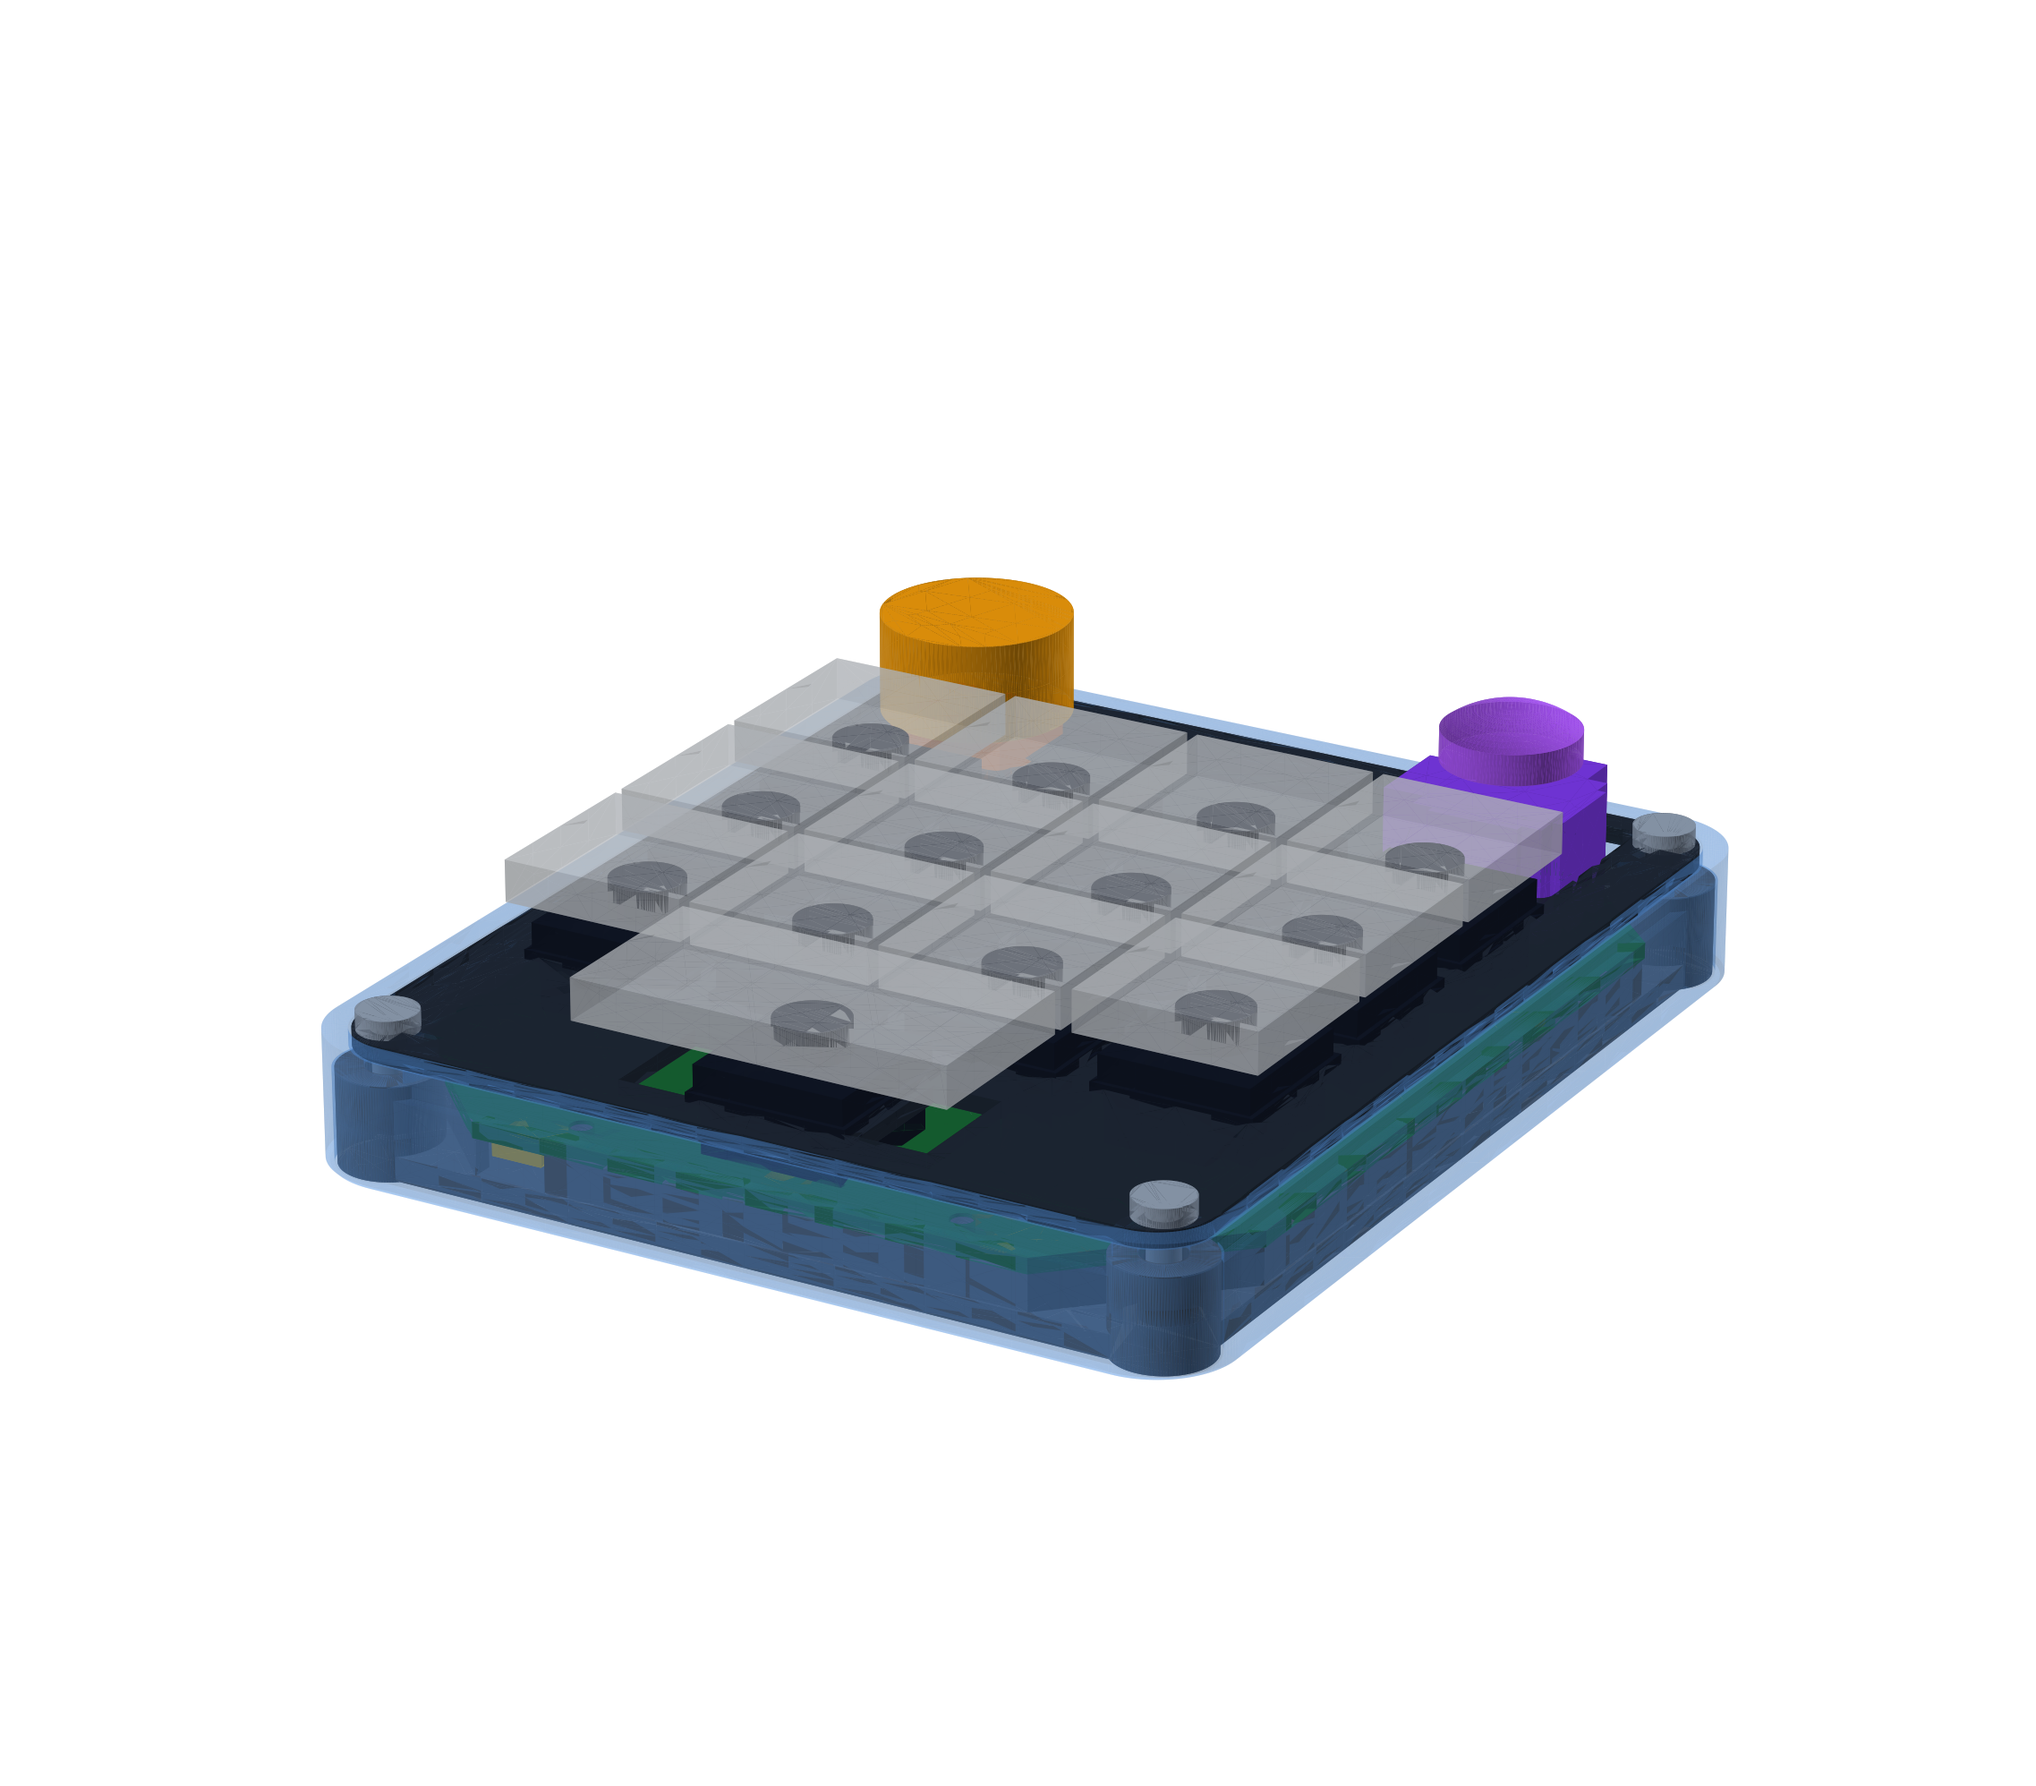
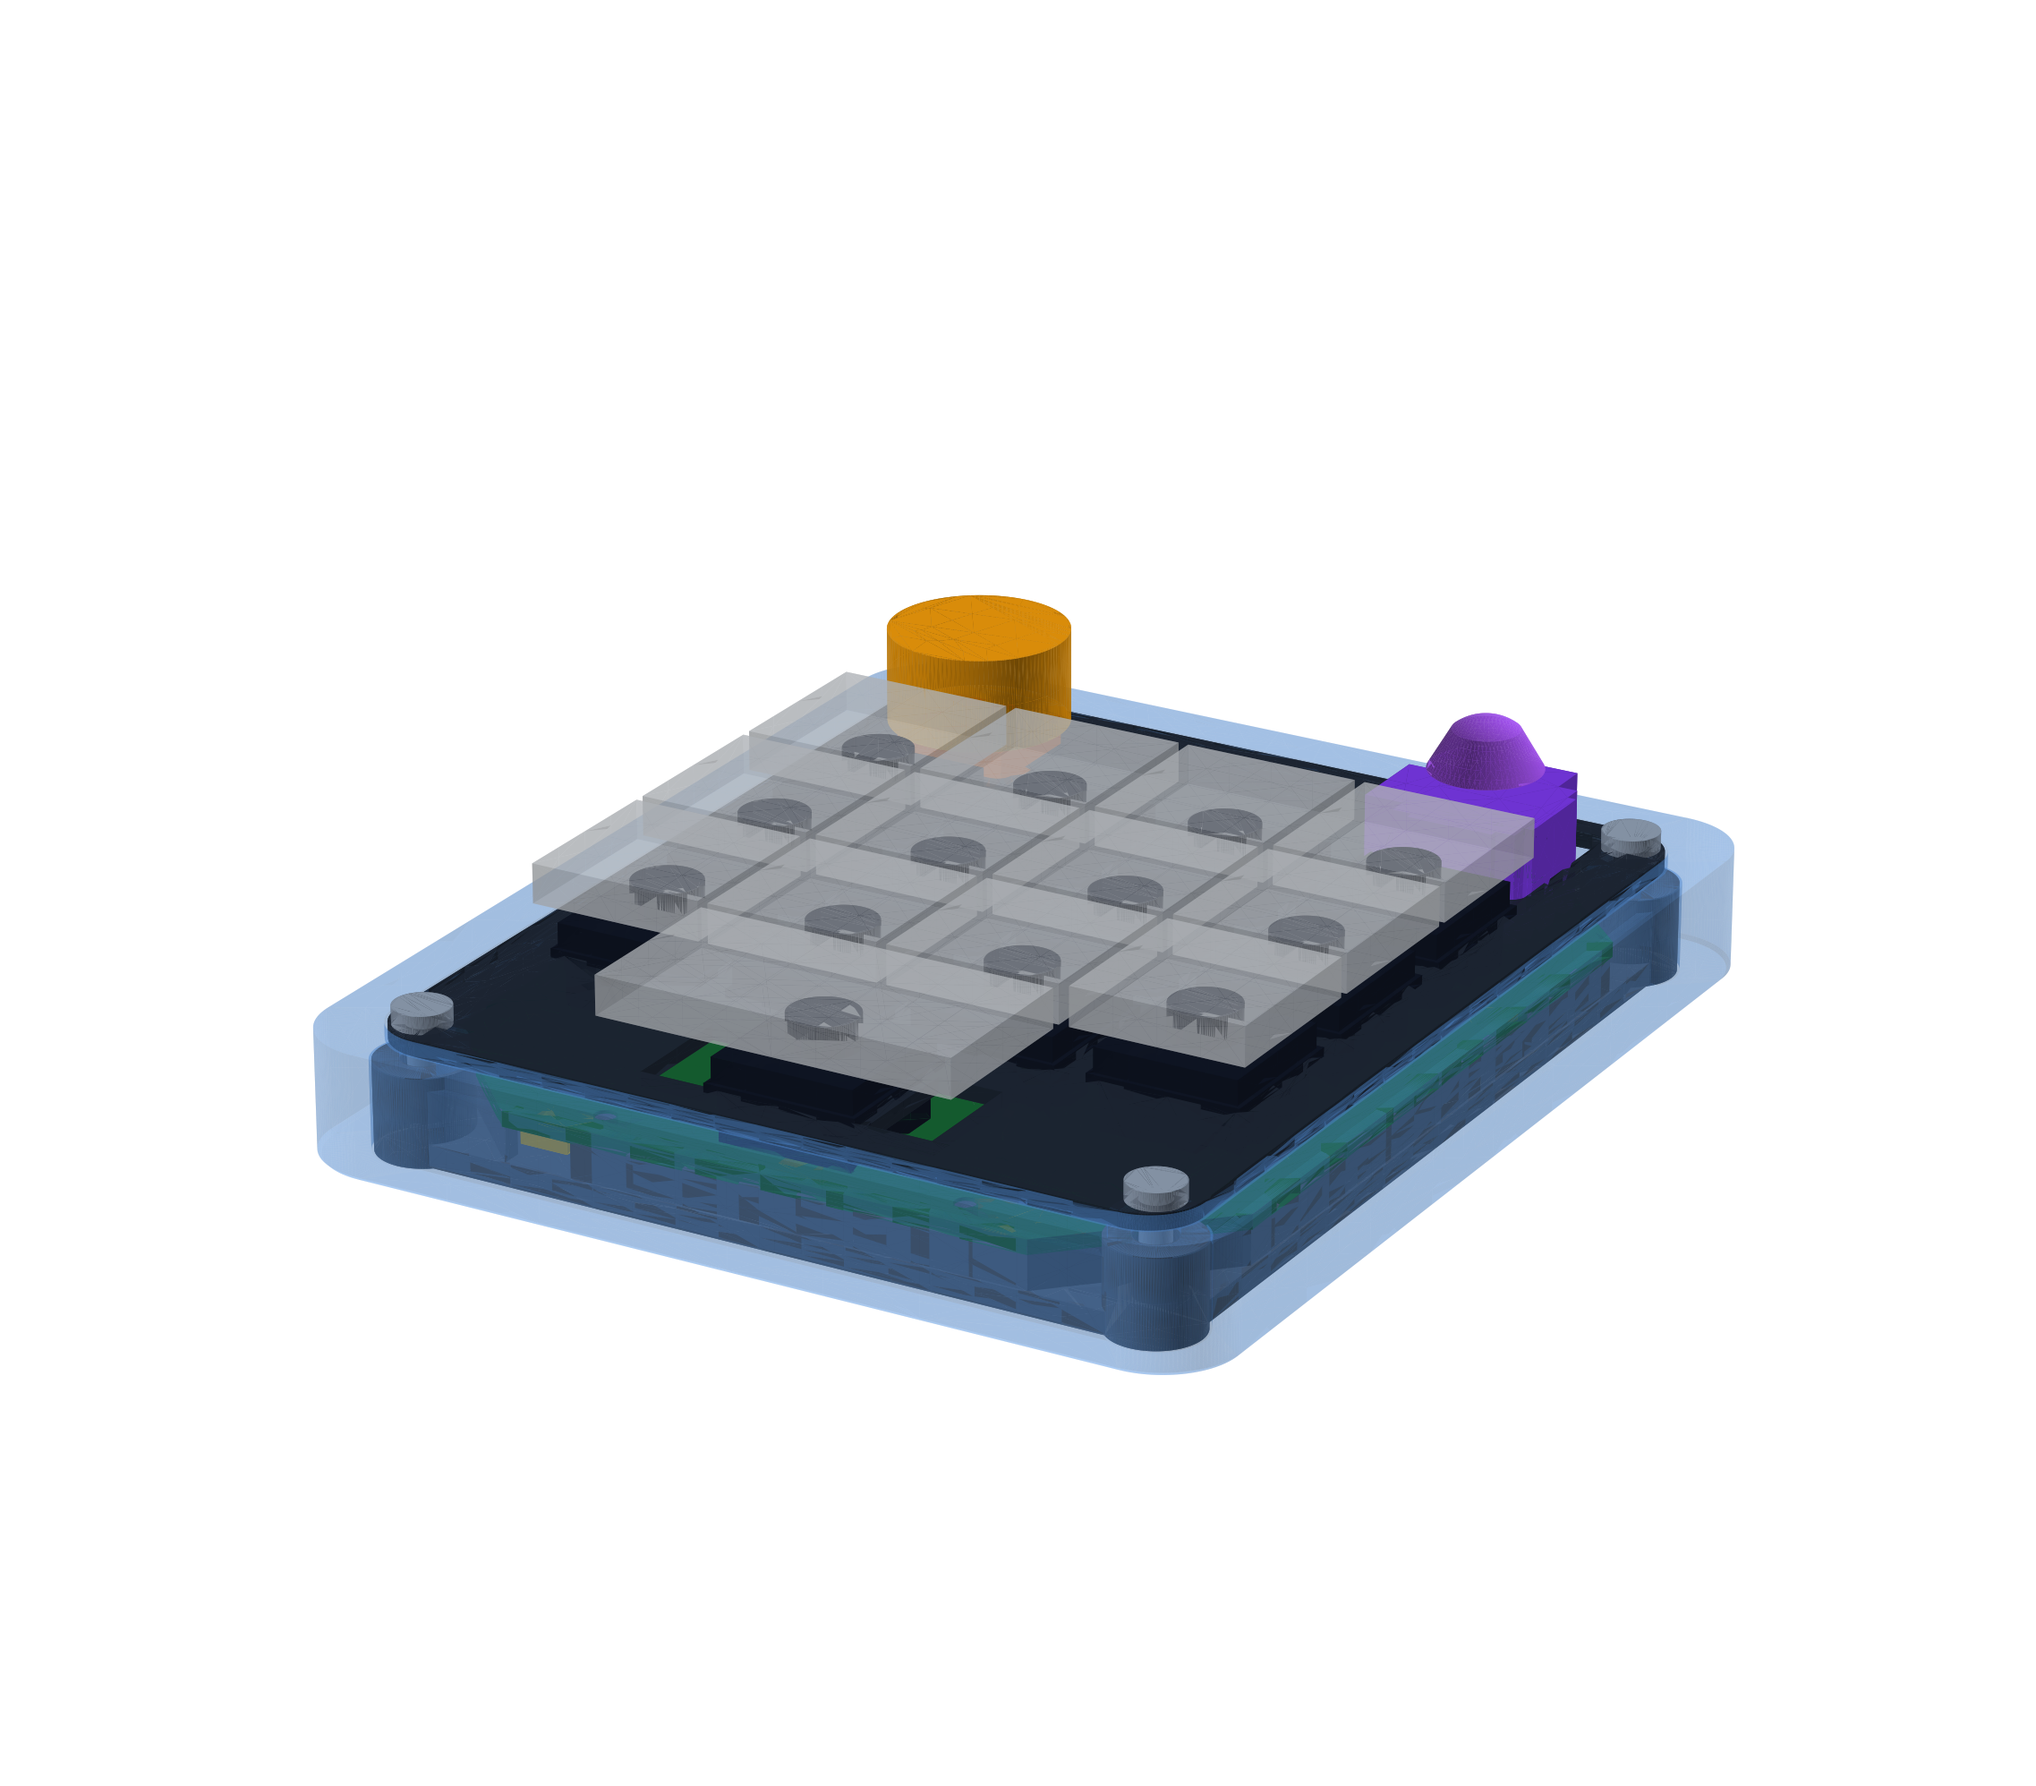
Renders: v2.7 thick-wall band hero + turntable
Regenerated both product renders against the shipping case geometry
(agentpad13_case_v2.py at WALL 5.4, OUTER 95.6 x 111.4). The old pair was
built on the retired 2.4 mm sidewall, so the case read 6 mm narrower than
what ships and had no USB port funnel.

Same pipeline, same part set, same colour scheme and same output size as
before (hero 2275x1995, turntable 2392x1522), so the README embeds are
unchanged. Frame limits widened by the same 3.3 mm margin the old sheets
used, which keeps the pad within 0.3% of its previous on-screen size.

What is visibly different:
- band rim now measures 5.60 mm on the flats in the top-down panel
  (5.30 mm band material + the 0.30 mm plate reveal), against 2.55 mm before
- the 3.00 mm USB port funnel now exists and reads as a stepped counterbore
  on the front wall and as a notch in the north edge of the top-down view
- the stick cap is the shipping tapered Ø11.3 cap, not the old dome proxy

Also corrects two labels the v2.5 turntable inherited: every panel runs
ax.invert_yaxis(), which mirrors the model in y, so azim +90 is the view of
the -y USB wall and azim -90 is the +y wall -- FRONT and BACK were swapped.
Confirmed by rendering the band opaque and locating the USB aperture plus
funnel counterbore on the near wall at azim 90. The elev26/azim-62 view is
the +y/+x corner, not the "USB corner", and is now named for the hero camera
it shares.

The two case-concept images at the top of the README are illustration, not
[…]

Changed region(s): [[0.156, 0.3108, 0.8738, 0.7769]]

diff --git a/README.md b/README.md
@@ -15,9 +15,15 @@ underglow) driven over Raw HID by an open agent-status protocol
   <img src="hardware/case/renders/agentpad13-v2-top.png" alt="agentpad13 case v2 top product render" width="42%">
 </p>
 
-<p align="center"><sub>Case concept: frosted RGB-diffusing band, matte-black FR4 plate, and printed tray.</sub></p>
+<p align="center"><sub>Case concept: frosted RGB-diffusing band, matte-black FR4 plate, and printed tray.
+<b>Concept art only</b> — drawn against the earlier thin band; the shipping v2.7 band has a
+<b>5.4 mm sidewall</b> (95.6 × 111.4 mm outside), as in the CAD renders below.</sub></p>
 
 ![agentpad13 — assembled](renders/hero.png)
+
+<p align="center"><sub>Assembled v5 board in the v2.7 case, straight from the CAD model — 5.4 mm band
+(5.3 mm visible rim), FR4 plate deck, encoder NW, YA13 tilt stick NE, USB-C on the north wall.
+Six-view turntable: <a href="renders/turntable.png"><code>renders/turntable.png</code></a>.</sub></p>
 
 ## Status
 
